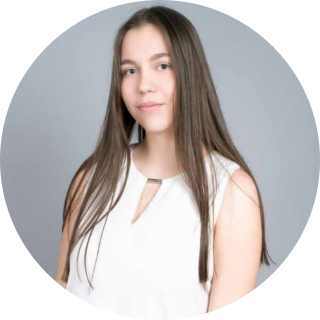
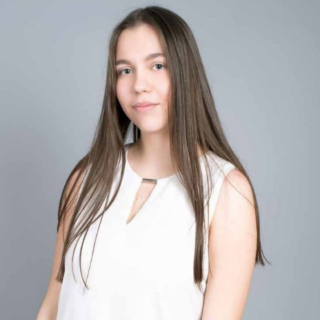
feat: change photo

diff --git a/index.html b/index.html
@@ -23,7 +23,8 @@
             </div>
         </header>
         <main>
-            <img src="Hanna Kuksa.jpg" alt="Hanna Kuksa">
+            <div class="img"><img src="Hanna Kuksa.jpg" alt="Hanna Kuksa"></div>
+            <div><h1>Hanna Kuksa</h1></div>
         </main>
         <footer></footer>
     </div>

diff --git a/style.css b/style.css
@@ -39,3 +39,13 @@ img {
     height: 320px;
     margin: 56px 100px 0 0;
 }
+
+.img {
+    float: left;
+}
+
+h1 {
+    width: 422px;
+    font-size: 64px;
+    font-weight: 700;
+}
